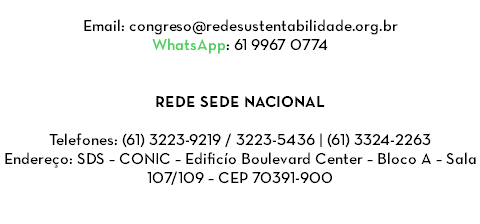
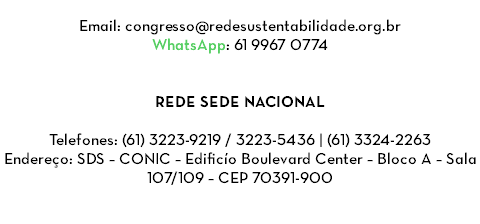
Correção link de inscrição e e-mail

Changed region(s): [[0.1562, 0.0625, 0.8438, 0.1562]]

diff --git a/_site/inscreva-se.html b/_site/inscreva-se.html
@@ -3,7 +3,7 @@
  <head>
 
   <script type="text/javascript">
-   if(typeof Muse == "undefined") window.Muse = {}; window.Muse.assets = {"required":["jquery-1.8.3.min.js", "museutils.js", "jquery.watch.js", "webpro.js", "musewpslideshow.js", "jquery.museoverlay.js", "touchswipe.js", "jquery.musemenu.js", "jquery.scrolleffects.js", "inscreva-se.css"], "outOfDate":[]};
+   if(typeof Muse == "undefined") window.Muse = {}; window.Muse.assets = {"required":["jquery-1.8.3.min.js", "museutils.js", "webpro.js", "musewpslideshow.js", "jquery.museoverlay.js", "touchswipe.js", "jquery.watch.js", "jquery.musemenu.js", "jquery.scrolleffects.js", "inscreva-se.css"], "outOfDate":[]};
 </script>
   
   <meta http-equiv="Content-type" content="text/html;charset=UTF-8"/>
@@ -1024,14 +1024,16 @@
         <div class="position_content" id="u47568_position_content">
          <div class="clearfix colelem" id="pu47559-7"><!-- group -->
           <img class="grpelem" id="u47559-7" alt="Para a participação dos inscritos como Observadores, será cobrada uma taxa de R$ 100,00(Cem Reais). Essa taxa foi calculada para cobrir os custos de participação e nele estão inclusos todos os itens do Kit Congressista, discriminado acima. " width="912" height="188" src="images/u47559-7.png"/><!-- rasterized frame -->
-          <div class="grpelem" id="u47571"><!-- simple frame --></div>
+          <!-- m_editable region-id="editable-static-tag-U47571" template="inscreva-se.html" data-type="html" data-ice-options="clickable" data-ice-editable="link" -->
+          <a class="nonblock nontext grpelem" id="u47571" href="https://docs.google.com/forms/d/1iW3v93ujCsbuv2XKQ9TfmAGasv1-nIIT3EAKmdKGcgs/viewform" data-muse-uid="U47571"><!-- simple frame --></a>
+          <!-- /m_editable -->
          </div>
          <a class="nonblock nontext colelem" id="u47570-6" href="https://docs.google.com/forms/d/1iW3v93ujCsbuv2XKQ9TfmAGasv1-nIIT3EAKmdKGcgs/viewform"><!-- rasterized frame --><img id="u47570-6_img" alt="Preencha o formulário para garantir sua participação! Inscrições válidas até 17 de Fevereiro " width="460" height="44" src="images/u47570-6.png"/></a>
         </div>
        </div>
       </div>
      </div>
-     <a class="nonblock nontext grpelem" id="u47572" href="https://docs.google.com/forms/d/1RoWwYsL5l6ypeXtZWWjN3GCknF5tflspP9wii9_aXos/viewform"><!-- state-based BG images --><img id="u47572_states" alt="FORMULÁRIO para INSCRIÇÃO" src="images/blank.gif"/></a>
+     <a class="nonblock nontext grpelem" id="u47572" href="https://docs.google.com/forms/d/1iW3v93ujCsbuv2XKQ9TfmAGasv1-nIIT3EAKmdKGcgs/viewform"><!-- state-based BG images --><img id="u47572_states" alt="FORMULÁRIO para INSCRIÇÃO" src="images/blank.gif"/></a>
     </div>
     <div class="clearfix colelem" id="pu47233"><!-- group -->
      <!-- m_editable region-id="editable-static-tag-U47233-BP_infinity" template="inscreva-se.html" data-type="image" data-ice-options="clickable" data-ice-editable="link" -->
@@ -1103,9 +1105,9 @@ Muse.Utils.initWidget('#slideshowu46998', ['#bp_infinity'], function(elem) { var
 Muse.Utils.initWidget('#slideshowu46890', ['#bp_infinity'], function(elem) { var widget = new WebPro.Widget.ContentSlideShow(elem, {autoPlay:true,displayInterval:3000,slideLinkStopsSlideShow:false,transitionStyle:'fading',lightboxEnabled_runtime:false,shuffle:true,transitionDuration:1500,enableSwipe:true,elastic:'off',resumeAutoplay:true,resumeAutoplayInterval:3000,playOnce:false,autoActivate_runtime:false}); $(elem).data('widget', widget); return widget; });/* #slideshowu46890 */
 Muse.Utils.initWidget('#slideshowu46216', ['#bp_infinity'], function(elem) { var widget = new WebPro.Widget.ContentSlideShow(elem, {autoPlay:true,displayInterval:3000,slideLinkStopsSlideShow:false,transitionStyle:'fading',lightboxEnabled_runtime:false,shuffle:true,transitionDuration:1500,enableSwipe:true,elastic:'off',resumeAutoplay:true,resumeAutoplayInterval:3000,playOnce:false,autoActivate_runtime:false}); $(elem).data('widget', widget); return widget; });/* #slideshowu46216 */
 Muse.Utils.initWidget('.MenuBar', ['#bp_infinity'], function(elem) { return $(elem).museMenu(); });/* unifiedNavBar */
-$('#u47230-bw').registerPositionScrollEffect([{"speed":[null,0],"in":[-Infinity,0]},{"speed":[null,0],"in":[0,Infinity]}]);/* scroll effect */
-$('#u47232-bw').registerPositionScrollEffect([{"speed":[null,1],"in":[-Infinity,299.87]},{"speed":[null,0],"in":[299.87,Infinity]}]);/* scroll effect */
-$('#menuu64187').registerPositionScrollEffect([{"speed":[0,1],"in":[-Infinity,299.85]},{"speed":[0,0],"in":[299.85,Infinity]}]);/* scroll effect */
+$('#u47230-bw').registerPositionScrollEffect([{"in":[-Infinity,0],"speed":[null,0]},{"in":[0,Infinity],"speed":[null,0]}]);/* scroll effect */
+$('#u47232-bw').registerPositionScrollEffect([{"in":[-Infinity,299.87],"speed":[null,1]},{"in":[299.87,Infinity],"speed":[null,0]}]);/* scroll effect */
+$('#menuu64187').registerPositionScrollEffect([{"in":[-Infinity,299.85],"speed":[0,1]},{"in":[299.85,Infinity],"speed":[0,0]}]);/* scroll effect */
 Muse.Utils.showWidgetsWhenReady();/* body */
 Muse.Utils.transformMarkupToFixBrowserProblems();/* body */
 } catch(e) { if (e && 'function' == typeof e.notify) e.notify(); else Muse.Assert.fail('Error calling selector function:' + e); }});

diff --git a/_site/contatos.html b/_site/contatos.html
@@ -995,7 +995,7 @@
        </div>
        <!-- /m_editable -->
        <div class="clearfix colelem" id="pu17123-19"><!-- group -->
-        <img class="grpelem" id="u17123-19" alt="&nbsp;Email: congreso@redesustentabilidade.org.br WhatsApp: 61 9967 0774 REDE SEDE NACIONAL Telefones: (61) 3223-9219 / 3223-5436 | (61) 3324-2263 Endereço: SDS – CONIC – Edificío Boulevard Center – Bloco A – Sala 107/109 – CEP 70391-900 " width="480" height="224" src="images/u17123-19.png"/><!-- rasterized frame -->
+        <img class="grpelem" id="u17123-19" alt="&nbsp;Email: congresso@redesustentabilidade.org.br WhatsApp: 61 9967 0774 REDE SEDE NACIONAL Telefones: (61) 3223-9219 / 3223-5436 | (61) 3324-2263 Endereço: SDS – CONIC – Edificío Boulevard Center – Bloco A – Sala 107/109 – CEP 70391-900 " width="480" height="224" src="images/u17123-19.png"/><!-- rasterized frame -->
         <!-- m_editable region-id="editable-static-tag-U38045-BP_infinity" template="contatos.html" data-type="image" -->
         <div class="clip_frame grpelem" id="u38045" data-muse-uid="U38045" data-muse-type="img_frame"><!-- image -->
          <img class="block" id="u38045_img" src="images/wta.gif" alt="" width="20" height="20" data-muse-src="images/wta.gif"/>
@@ -1075,9 +1075,9 @@ Muse.Utils.initWidget('#slideshowu30395', ['#bp_infinity'], function(elem) { var
 Muse.Utils.initWidget('#slideshowu29779', ['#bp_infinity'], function(elem) { var widget = new WebPro.Widget.ContentSlideShow(elem, {autoPlay:true,displayInterval:3000,slideLinkStopsSlideShow:false,transitionStyle:'fading',lightboxEnabled_runtime:false,shuffle:true,transitionDuration:1500,enableSwipe:true,elastic:'off',resumeAutoplay:true,resumeAutoplayInterval:3000,playOnce:false,autoActivate_runtime:false}); $(elem).data('widget', widget); return widget; });/* #slideshowu29779 */
 Muse.Utils.initWidget('#slideshowu29553', ['#bp_infinity'], function(elem) { var widget = new WebPro.Widget.ContentSlideShow(elem, {autoPlay:true,displayInterval:3000,slideLinkStopsSlideShow:false,transitionStyle:'fading',lightboxEnabled_runtime:false,shuffle:true,transitionDuration:1500,enableSwipe:true,elastic:'off',resumeAutoplay:true,resumeAutoplayInterval:3000,playOnce:false,autoActivate_runtime:false}); $(elem).data('widget', widget); return widget; });/* #slideshowu29553 */
 Muse.Utils.initWidget('.MenuBar', ['#bp_infinity'], function(elem) { return $(elem).museMenu(); });/* unifiedNavBar */
-$('#u9026-bw').registerPositionScrollEffect([{"speed":[null,0],"in":[-Infinity,0]},{"speed":[null,0],"in":[0,Infinity]}]);/* scroll effect */
-$('#u9285-bw').registerPositionScrollEffect([{"speed":[null,1],"in":[-Infinity,299.87]},{"speed":[null,0],"in":[299.87,Infinity]}]);/* scroll effect */
-$('#menuu62263').registerPositionScrollEffect([{"speed":[0,1],"in":[-Infinity,299.85]},{"speed":[0,0],"in":[299.85,Infinity]}]);/* scroll effect */
+$('#u9026-bw').registerPositionScrollEffect([{"in":[-Infinity,0],"speed":[null,0]},{"in":[0,Infinity],"speed":[null,0]}]);/* scroll effect */
+$('#u9285-bw').registerPositionScrollEffect([{"in":[-Infinity,299.87],"speed":[null,1]},{"in":[299.87,Infinity],"speed":[null,0]}]);/* scroll effect */
+$('#menuu62263').registerPositionScrollEffect([{"in":[-Infinity,299.85],"speed":[0,1]},{"in":[299.85,Infinity],"speed":[0,0]}]);/* scroll effect */
 Muse.Utils.showWidgetsWhenReady();/* body */
 Muse.Utils.transformMarkupToFixBrowserProblems();/* body */
 } catch(e) { if (e && 'function' == typeof e.notify) e.notify(); else Muse.Assert.fail('Error calling selector function:' + e); }});

diff --git a/_site/news4.html b/_site/news4.html
@@ -1202,9 +1202,9 @@ Muse.Utils.initWidget('#slideshowu42846', ['#bp_infinity'], function(elem) { var
 Muse.Utils.initWidget('#slideshowu42717', ['#bp_infinity'], function(elem) { var widget = new WebPro.Widget.ContentSlideShow(elem, {autoPlay:true,displayInterval:3000,slideLinkStopsSlideShow:false,transitionStyle:'fading',lightboxEnabled_runtime:false,shuffle:true,transitionDuration:1500,enableSwipe:true,elastic:'off',resumeAutoplay:true,resumeAutoplayInterval:3000,playOnce:false,autoActivate_runtime:false}); $(elem).data('widget', widget); return widget; });/* #slideshowu42717 */
 Muse.Utils.initWidget('#slideshowu42888', ['#bp_infinity'], function(elem) { var widget = new WebPro.Widget.ContentSlideShow(elem, {autoPlay:true,displayInterval:3000,slideLinkStopsSlideShow:false,transitionStyle:'fading',lightboxEnabled_runtime:false,shuffle:true,transitionDuration:1500,enableSwipe:true,elastic:'off',resumeAutoplay:true,resumeAutoplayInterval:3000,playOnce:false,autoActivate_runtime:false}); $(elem).data('widget', widget); return widget; });/* #slideshowu42888 */
 Muse.Utils.initWidget('.MenuBar', ['#bp_infinity'], function(elem) { return $(elem).museMenu(); });/* unifiedNavBar */
-$('#u44666-bw').registerPositionScrollEffect([{"speed":[null,0],"in":[-Infinity,0.05]},{"speed":[null,0],"in":[0.05,Infinity]}]);/* scroll effect */
-$('#u43827-bw').registerPositionScrollEffect([{"speed":[null,1],"in":[-Infinity,299.87]},{"speed":[null,0],"in":[299.87,Infinity]}]);/* scroll effect */
-$('#menuu63992').registerPositionScrollEffect([{"speed":[0,1],"in":[-Infinity,299.85]},{"speed":[0,0],"in":[299.85,Infinity]}]);/* scroll effect */
+$('#u44666-bw').registerPositionScrollEffect([{"in":[-Infinity,0.05],"speed":[null,0]},{"in":[0.05,Infinity],"speed":[null,0]}]);/* scroll effect */
+$('#u43827-bw').registerPositionScrollEffect([{"in":[-Infinity,299.87],"speed":[null,1]},{"in":[299.87,Infinity],"speed":[null,0]}]);/* scroll effect */
+$('#menuu63992').registerPositionScrollEffect([{"in":[-Infinity,299.85],"speed":[0,1]},{"in":[299.85,Infinity],"speed":[0,0]}]);/* scroll effect */
 Muse.Utils.showWidgetsWhenReady();/* body */
 Muse.Utils.transformMarkupToFixBrowserProblems();/* body */
 } catch(e) { if (e && 'function' == typeof e.notify) e.notify(); else Muse.Assert.fail('Error calling selector function:' + e); }});

diff --git a/_site/news5.html b/_site/news5.html
@@ -1196,9 +1196,9 @@ Muse.Utils.initWidget('#slideshowu65220', ['#bp_infinity'], function(elem) { var
 Muse.Utils.initWidget('#slideshowu65023', ['#bp_infinity'], function(elem) { var widget = new WebPro.Widget.ContentSlideShow(elem, {autoPlay:true,displayInterval:3000,slideLinkStopsSlideShow:false,transitionStyle:'fading',lightboxEnabled_runtime:false,shuffle:true,transitionDuration:1500,enableSwipe:true,elastic:'off',resumeAutoplay:true,resumeAutoplayInterval:3000,playOnce:false,autoActivate_runtime:false}); $(elem).data('widget', widget); return widget; });/* #slideshowu65023 */
 Muse.Utils.initWidget('#slideshowu65568', ['#bp_infinity'], function(elem) { var widget = new WebPro.Widget.ContentSlideShow(elem, {autoPlay:true,displayInterval:3000,slideLinkStopsSlideShow:false,transitionStyle:'fading',lightboxEnabled_runtime:false,shuffle:true,transitionDuration:1500,enableSwipe:true,elastic:'off',resumeAutoplay:true,resumeAutoplayInterval:3000,playOnce:false,autoActivate_runtime:false}); $(elem).data('widget', widget); return widget; });/* #slideshowu65568 */
 Muse.Utils.initWidget('.MenuBar', ['#bp_infinity'], function(elem) { return $(elem).museMenu(); });/* unifiedNavBar */
-$('#u66150-bw').registerPositionScrollEffect([{"speed":[null,0],"in":[-Infinity,0.05]},{"speed":[null,0],"in":[0.05,Infinity]}]);/* scroll effect */
-$('#u66148-bw').registerPositionScrollEffect([{"speed":[null,1],"in":[-Infinity,299.87]},{"speed":[null,0],"in":[299.87,Infinity]}]);/* scroll effect */
-$('#menuu66082').registerPositionScrollEffect([{"speed":[0,1],"in":[-Infinity,299.85]},{"speed":[0,0],"in":[299.85,Infinity]}]);/* scroll effect */
+$('#u66150-bw').registerPositionScrollEffect([{"in":[-Infinity,0.05],"speed":[null,0]},{"in":[0.05,Infinity],"speed":[null,0]}]);/* scroll effect */
+$('#u66148-bw').registerPositionScrollEffect([{"in":[-Infinity,299.87],"speed":[null,1]},{"in":[299.87,Infinity],"speed":[null,0]}]);/* scroll effect */
+$('#menuu66082').registerPositionScrollEffect([{"in":[-Infinity,299.85],"speed":[0,1]},{"in":[299.85,Infinity],"speed":[0,0]}]);/* scroll effect */
 Muse.Utils.showWidgetsWhenReady();/* body */
 Muse.Utils.transformMarkupToFixBrowserProblems();/* body */
 } catch(e) { if (e && 'function' == typeof e.notify) e.notify(); else Muse.Assert.fail('Error calling selector function:' + e); }});

diff --git a/_site/news6.html b/_site/news6.html
@@ -1200,9 +1200,9 @@ Muse.Utils.initWidget('#slideshowu69653', ['#bp_infinity'], function(elem) { var
 Muse.Utils.initWidget('#slideshowu69674', ['#bp_infinity'], function(elem) { var widget = new WebPro.Widget.ContentSlideShow(elem, {autoPlay:true,displayInterval:3000,slideLinkStopsSlideShow:false,transitionStyle:'fading',lightboxEnabled_runtime:false,shuffle:true,transitionDuration:1500,enableSwipe:true,elastic:'off',resumeAutoplay:true,resumeAutoplayInterval:3000,playOnce:false,autoActivate_runtime:false}); $(elem).data('widget', widget); return widget; });/* #slideshowu69674 */
 Muse.Utils.initWidget('#slideshowu69472', ['#bp_infinity'], function(elem) { var widget = new WebPro.Widget.ContentSlideShow(elem, {autoPlay:true,displayInterval:3000,slideLinkStopsSlideShow:false,transitionStyle:'fading',lightboxEnabled_runtime:false,shuffle:true,transitionDuration:1500,enableSwipe:true,elastic:'off',resumeAutoplay:true,resumeAutoplayInterval:3000,playOnce:false,autoActivate_runtime:false}); $(elem).data('widget', widget); return widget; });/* #slideshowu69472 */
 Muse.Utils.initWidget('.MenuBar', ['#bp_infinity'], function(elem) { return $(elem).museMenu(); });/* unifiedNavBar */
-$('#u68746-bw').registerPositionScrollEffect([{"speed":[null,0],"in":[-Infinity,0.05]},{"speed":[null,0],"in":[0.05,Infinity]}]);/* scroll effect */
-$('#u69869-bw').registerPositionScrollEffect([{"speed":[null,1],"in":[-Infinity,299.87]},{"speed":[null,0],"in":[299.87,Infinity]}]);/* scroll effect */
-$('#menuu68747').registerPositionScrollEffect([{"speed":[0,1],"in":[-Infinity,299.85]},{"speed":[0,0],"in":[299.85,Infinity]}]);/* scroll effect */
+$('#u68746-bw').registerPositionScrollEffect([{"in":[-Infinity,0.05],"speed":[null,0]},{"in":[0.05,Infinity],"speed":[null,0]}]);/* scroll effect */
+$('#u69869-bw').registerPositionScrollEffect([{"in":[-Infinity,299.87],"speed":[null,1]},{"in":[299.87,Infinity],"speed":[null,0]}]);/* scroll effect */
+$('#menuu68747').registerPositionScrollEffect([{"in":[-Infinity,299.85],"speed":[0,1]},{"in":[299.85,Infinity],"speed":[0,0]}]);/* scroll effect */
 Muse.Utils.showWidgetsWhenReady();/* body */
 Muse.Utils.transformMarkupToFixBrowserProblems();/* body */
 } catch(e) { if (e && 'function' == typeof e.notify) e.notify(); else Muse.Assert.fail('Error calling selector function:' + e); }});

diff --git a/_site/news7.html b/_site/news7.html
@@ -1200,9 +1200,9 @@ Muse.Utils.initWidget('#slideshowu70988', ['#bp_infinity'], function(elem) { var
 Muse.Utils.initWidget('#slideshowu70730', ['#bp_infinity'], function(elem) { var widget = new WebPro.Widget.ContentSlideShow(elem, {autoPlay:true,displayInterval:3000,slideLinkStopsSlideShow:false,transitionStyle:'fading',lightboxEnabled_runtime:false,shuffle:true,transitionDuration:1500,enableSwipe:true,elastic:'off',resumeAutoplay:true,resumeAutoplayInterval:3000,playOnce:false,autoActivate_runtime:false}); $(elem).data('widget', widget); return widget; });/* #slideshowu70730 */
 Muse.Utils.initWidget('#slideshowu71009', ['#bp_infinity'], function(elem) { var widget = new WebPro.Widget.ContentSlideShow(elem, {autoPlay:true,displayInterval:3000,slideLinkStopsSlideShow:false,transitionStyle:'fading',lightboxEnabled_runtime:false,shuffle:true,transitionDuration:1500,enableSwipe:true,elastic:'off',resumeAutoplay:true,resumeAutoplayInterval:3000,playOnce:false,autoActivate_runtime:false}); $(elem).data('widget', widget); return widget; });/* #slideshowu71009 */
 Muse.Utils.initWidget('.MenuBar', ['#bp_infinity'], function(elem) { return $(elem).museMenu(); });/* unifiedNavBar */
-$('#u70435-bw').registerPositionScrollEffect([{"speed":[null,0],"in":[-Infinity,0.05]},{"speed":[null,0],"in":[0.05,Infinity]}]);/* scroll effect */
-$('#u70436-bw').registerPositionScrollEffect([{"speed":[null,1],"in":[-Infinity,299.87]},{"speed":[null,0],"in":[299.87,Infinity]}]);/* scroll effect */
-$('#menuu70370').registerPositionScrollEffect([{"speed":[0,1],"in":[-Infinity,299.85]},{"speed":[0,0],"in":[299.85,Infinity]}]);/* scroll effect */
+$('#u70435-bw').registerPositionScrollEffect([{"in":[-Infinity,0.05],"speed":[null,0]},{"in":[0.05,Infinity],"speed":[null,0]}]);/* scroll effect */
+$('#u70436-bw').registerPositionScrollEffect([{"in":[-Infinity,299.87],"speed":[null,1]},{"in":[299.87,Infinity],"speed":[null,0]}]);/* scroll effect */
+$('#menuu70370').registerPositionScrollEffect([{"in":[-Infinity,299.85],"speed":[0,1]},{"in":[299.85,Infinity],"speed":[0,0]}]);/* scroll effect */
 Muse.Utils.showWidgetsWhenReady();/* body */
 Muse.Utils.transformMarkupToFixBrowserProblems();/* body */
 } catch(e) { if (e && 'function' == typeof e.notify) e.notify(); else Muse.Assert.fail('Error calling selector function:' + e); }});

diff --git a/_site/arquivos.html b/_site/arquivos.html
@@ -1092,9 +1092,9 @@ Muse.Utils.initWidget('#slideshowu38268', ['#bp_infinity'], function(elem) { var
 Muse.Utils.initWidget('#slideshowu38738', ['#bp_infinity'], function(elem) { var widget = new WebPro.Widget.ContentSlideShow(elem, {autoPlay:true,displayInterval:3000,slideLinkStopsSlideShow:false,transitionStyle:'fading',lightboxEnabled_runtime:false,shuffle:true,transitionDuration:1500,enableSwipe:true,elastic:'off',resumeAutoplay:true,resumeAutoplayInterval:3000,playOnce:false,autoActivate_runtime:false}); $(elem).data('widget', widget); return widget; });/* #slideshowu38738 */
 Muse.Utils.initWidget('#slideshowu38460', ['#bp_infinity'], function(elem) { var widget = new WebPro.Widget.ContentSlideShow(elem, {autoPlay:true,displayInterval:3000,slideLinkStopsSlideShow:false,transitionStyle:'fading',lightboxEnabled_runtime:false,shuffle:true,transitionDuration:1500,enableSwipe:true,elastic:'off',resumeAutoplay:true,resumeAutoplayInterval:3000,playOnce:false,autoActivate_runtime:false}); $(elem).data('widget', widget); return widget; });/* #slideshowu38460 */
 Muse.Utils.initWidget('.MenuBar', ['#bp_infinity'], function(elem) { return $(elem).museMenu(); });/* unifiedNavBar */
-$('#u38208-bw').registerPositionScrollEffect([{"speed":[null,0],"in":[-Infinity,0]},{"speed":[null,0],"in":[0,Infinity]}]);/* scroll effect */
-$('#u38264-bw').registerPositionScrollEffect([{"speed":[null,1],"in":[-Infinity,299.87]},{"speed":[null,0],"in":[299.87,Infinity]}]);/* scroll effect */
-$('#menuu62647').registerPositionScrollEffect([{"speed":[0,1],"in":[-Infinity,299.85]},{"speed":[0,0],"in":[299.85,Infinity]}]);/* scroll effect */
+$('#u38208-bw').registerPositionScrollEffect([{"in":[-Infinity,0],"speed":[null,0]},{"in":[0,Infinity],"speed":[null,0]}]);/* scroll effect */
+$('#u38264-bw').registerPositionScrollEffect([{"in":[-Infinity,299.87],"speed":[null,1]},{"in":[299.87,Infinity],"speed":[null,0]}]);/* scroll effect */
+$('#menuu62647').registerPositionScrollEffect([{"in":[-Infinity,299.85],"speed":[0,1]},{"in":[299.85,Infinity],"speed":[0,0]}]);/* scroll effect */
 Muse.Utils.showWidgetsWhenReady();/* body */
 Muse.Utils.transformMarkupToFixBrowserProblems();/* body */
 } catch(e) { if (e && 'function' == typeof e.notify) e.notify(); else Muse.Assert.fail('Error calling selector function:' + e); }});

diff --git a/_site/news1.html b/_site/news1.html
@@ -1196,9 +1196,9 @@ Muse.Utils.initWidget('#slideshowu33087', ['#bp_infinity'], function(elem) { var
 Muse.Utils.initWidget('#slideshowu32471', ['#bp_infinity'], function(elem) { var widget = new WebPro.Widget.ContentSlideShow(elem, {autoPlay:true,displayInterval:3000,slideLinkStopsSlideShow:false,transitionStyle:'fading',lightboxEnabled_runtime:false,shuffle:true,transitionDuration:1500,enableSwipe:true,elastic:'off',resumeAutoplay:true,resumeAutoplayInterval:3000,playOnce:false,autoActivate_runtime:false}); $(elem).data('widget', widget); return widget; });/* #slideshowu32471 */
 Muse.Utils.initWidget('#slideshowu32245', ['#bp_infinity'], function(elem) { var widget = new WebPro.Widget.ContentSlideShow(elem, {autoPlay:true,displayInterval:3000,slideLinkStopsSlideShow:false,transitionStyle:'fading',lightboxEnabled_runtime:false,shuffle:true,transitionDuration:1500,enableSwipe:true,elastic:'off',resumeAutoplay:true,resumeAutoplayInterval:3000,playOnce:false,autoActivate_runtime:false}); $(elem).data('widget', widget); return widget; });/* #slideshowu32245 */
 Muse.Utils.initWidget('.MenuBar', ['#bp_infinity'], function(elem) { return $(elem).museMenu(); });/* unifiedNavBar */
-$('#u15052-bw').registerPositionScrollEffect([{"speed":[null,0],"in":[-Infinity,0]},{"speed":[null,0],"in":[0,Infinity]}]);/* scroll effect */
-$('#u14894-bw').registerPositionScrollEffect([{"speed":[null,1],"in":[-Infinity,299.87]},{"speed":[null,0],"in":[299.87,Infinity]}]);/* scroll effect */
-$('#menuu63416').registerPositionScrollEffect([{"speed":[0,1],"in":[-Infinity,299.85]},{"speed":[0,0],"in":[299.85,Infinity]}]);/* scroll effect */
+$('#u15052-bw').registerPositionScrollEffect([{"in":[-Infinity,0],"speed":[null,0]},{"in":[0,Infinity],"speed":[null,0]}]);/* scroll effect */
+$('#u14894-bw').registerPositionScrollEffect([{"in":[-Infinity,299.87],"speed":[null,1]},{"in":[299.87,Infinity],"speed":[null,0]}]);/* scroll effect */
+$('#menuu63416').registerPositionScrollEffect([{"in":[-Infinity,299.85],"speed":[0,1]},{"in":[299.85,Infinity],"speed":[0,0]}]);/* scroll effect */
 Muse.Utils.showWidgetsWhenReady();/* body */
 Muse.Utils.transformMarkupToFixBrowserProblems();/* body */
 } catch(e) { if (e && 'function' == typeof e.notify) e.notify(); else Muse.Assert.fail('Error calling selector function:' + e); }});

diff --git a/_site/news2.html b/_site/news2.html
@@ -1194,9 +1194,9 @@ Muse.Utils.initWidget('#slideshowu34433', ['#bp_infinity'], function(elem) { var
 Muse.Utils.initWidget('#slideshowu33817', ['#bp_infinity'], function(elem) { var widget = new WebPro.Widget.ContentSlideShow(elem, {autoPlay:true,displayInterval:3000,slideLinkStopsSlideShow:false,transitionStyle:'fading',lightboxEnabled_runtime:false,shuffle:true,transitionDuration:1500,enableSwipe:true,elastic:'off',resumeAutoplay:true,resumeAutoplayInterval:3000,playOnce:false,autoActivate_runtime:false}); $(elem).data('widget', widget); return widget; });/* #slideshowu33817 */
 Muse.Utils.initWidget('#slideshowu33591', ['#bp_infinity'], function(elem) { var widget = new WebPro.Widget.ContentSlideShow(elem, {autoPlay:true,displayInterval:3000,slideLinkStopsSlideShow:false,transitionStyle:'fading',lightboxEnabled_runtime:false,shuffle:true,transitionDuration:1500,enableSwipe:true,elastic:'off',resumeAutoplay:true,resumeAutoplayInterval:3000,playOnce:false,autoActivate_runtime:false}); $(elem).data('widget', widget); return widget; });/* #slideshowu33591 */
 Muse.Utils.initWidget('.MenuBar', ['#bp_infinity'], function(elem) { return $(elem).museMenu(); });/* unifiedNavBar */
-$('#u16376-bw').registerPositionScrollEffect([{"speed":[null,0],"in":[-Infinity,0]},{"speed":[null,0],"in":[0,Infinity]}]);/* scroll effect */
-$('#u16546-bw').registerPositionScrollEffect([{"speed":[null,1],"in":[-Infinity,299.87]},{"speed":[null,0],"in":[299.87,Infinity]}]);/* scroll effect */
-$('#menuu63608').registerPositionScrollEffect([{"speed":[0,1],"in":[-Infinity,299.85]},{"speed":[0,0],"in":[299.85,Infinity]}]);/* scroll effect */
+$('#u16376-bw').registerPositionScrollEffect([{"in":[-Infinity,0],"speed":[null,0]},{"in":[0,Infinity],"speed":[null,0]}]);/* scroll effect */
+$('#u16546-bw').registerPositionScrollEffect([{"in":[-Infinity,299.87],"speed":[null,1]},{"in":[299.87,Infinity],"speed":[null,0]}]);/* scroll effect */
+$('#menuu63608').registerPositionScrollEffect([{"in":[-Infinity,299.85],"speed":[0,1]},{"in":[299.85,Infinity],"speed":[0,0]}]);/* scroll effect */
 Muse.Utils.showWidgetsWhenReady();/* body */
 Muse.Utils.transformMarkupToFixBrowserProblems();/* body */
 } catch(e) { if (e && 'function' == typeof e.notify) e.notify(); else Muse.Assert.fail('Error calling selector function:' + e); }});

diff --git a/_site/news3.html b/_site/news3.html
@@ -1206,9 +1206,9 @@ Muse.Utils.initWidget('#slideshowu40426', ['#bp_infinity'], function(elem) { var
 Muse.Utils.initWidget('#slideshowu40489', ['#bp_infinity'], function(elem) { var widget = new WebPro.Widget.ContentSlideShow(elem, {autoPlay:true,displayInterval:3000,slideLinkStopsSlideShow:false,transitionStyle:'fading',lightboxEnabled_runtime:false,shuffle:true,transitionDuration:1500,enableSwipe:true,elastic:'off',resumeAutoplay:true,resumeAutoplayInterval:3000,playOnce:false,autoActivate_runtime:false}); $(elem).data('widget', widget); return widget; });/* #slideshowu40489 */
 Muse.Utils.initWidget('#slideshowu40158', ['#bp_infinity'], function(elem) { var widget = new WebPro.Widget.ContentSlideShow(elem, {autoPlay:true,displayInterval:3000,slideLinkStopsSlideShow:false,transitionStyle:'fading',lightboxEnabled_runtime:false,shuffle:true,transitionDuration:1500,enableSwipe:true,elastic:'off',resumeAutoplay:true,resumeAutoplayInterval:3000,playOnce:false,autoActivate_runtime:false}); $(elem).data('widget', widget); return widget; });/* #slideshowu40158 */
 Muse.Utils.initWidget('.MenuBar', ['#bp_infinity'], function(elem) { return $(elem).museMenu(); });/* unifiedNavBar */
-$('#u39818-bw').registerPositionScrollEffect([{"speed":[null,0],"in":[-Infinity,0]},{"speed":[null,0],"in":[0,Infinity]}]);/* scroll effect */
-$('#u40875-bw').registerPositionScrollEffect([{"speed":[null,1],"in":[-Infinity,299.87]},{"speed":[null,0],"in":[299.87,Infinity]}]);/* scroll effect */
-$('#menuu63800').registerPositionScrollEffect([{"speed":[0,1],"in":[-Infinity,299.85]},{"speed":[0,0],"in":[299.85,Infinity]}]);/* scroll effect */
+$('#u39818-bw').registerPositionScrollEffect([{"in":[-Infinity,0],"speed":[null,0]},{"in":[0,Infinity],"speed":[null,0]}]);/* scroll effect */
+$('#u40875-bw').registerPositionScrollEffect([{"in":[-Infinity,299.87],"speed":[null,1]},{"in":[299.87,Infinity],"speed":[null,0]}]);/* scroll effect */
+$('#menuu63800').registerPositionScrollEffect([{"in":[-Infinity,299.85],"speed":[0,1]},{"in":[299.85,Infinity],"speed":[0,0]}]);/* scroll effect */
 Muse.Utils.showWidgetsWhenReady();/* body */
 Muse.Utils.transformMarkupToFixBrowserProblems();/* body */
 } catch(e) { if (e && 'function' == typeof e.notify) e.notify(); else Muse.Assert.fail('Error calling selector function:' + e); }});

diff --git a/_site/tese--e-prif.html b/_site/tese--e-prif.html
@@ -1067,9 +1067,9 @@ Muse.Utils.initWidget('#slideshowu45005', ['#bp_infinity'], function(elem) { var
 Muse.Utils.initWidget('#slideshowu45724', ['#bp_infinity'], function(elem) { var widget = new WebPro.Widget.ContentSlideShow(elem, {autoPlay:true,displayInterval:3000,slideLinkStopsSlideShow:false,transitionStyle:'fading',lightboxEnabled_runtime:false,shuffle:true,transitionDuration:1500,enableSwipe:true,elastic:'off',resumeAutoplay:true,resumeAutoplayInterval:3000,playOnce:false,autoActivate_runtime:false}); $(elem).data('widget', widget); return widget; });/* #slideshowu45724 */
 Muse.Utils.initWidget('#slideshowu45433', ['#bp_infinity'], function(elem) { var widget = new WebPro.Widget.ContentSlideShow(elem, {autoPlay:true,displayInterval:3000,slideLinkStopsSlideShow:false,transitionStyle:'fading',lightboxEnabled_runtime:false,shuffle:true,transitionDuration:1500,enableSwipe:true,elastic:'off',resumeAutoplay:true,resumeAutoplayInterval:3000,playOnce:false,autoActivate_runtime:false}); $(elem).data('widget', widget); return widget; });/* #slideshowu45433 */
 Muse.Utils.initWidget('.MenuBar', ['#bp_infinity'], function(elem) { return $(elem).museMenu(); });/* unifiedNavBar */
-$('#u44749-bw').registerPositionScrollEffect([{"speed":[null,0],"in":[-Infinity,0]},{"speed":[null,0],"in":[0,Infinity]}]);/* scroll effect */
-$('#u60182-bw').registerPositionScrollEffect([{"speed":[null,1],"in":[-Infinity,299.81]},{"speed":[null,0],"in":[299.81,Infinity]}]);/* scroll effect */
-$('#menuu62839').registerPositionScrollEffect([{"speed":[0,1],"in":[-Infinity,299.8]},{"speed":[0,0],"in":[299.8,Infinity]}]);/* scroll effect */
+$('#u44749-bw').registerPositionScrollEffect([{"in":[-Infinity,0],"speed":[null,0]},{"in":[0,Infinity],"speed":[null,0]}]);/* scroll effect */
+$('#u60182-bw').registerPositionScrollEffect([{"in":[-Infinity,299.81],"speed":[null,1]},{"in":[299.81,Infinity],"speed":[null,0]}]);/* scroll effect */
+$('#menuu62839').registerPositionScrollEffect([{"in":[-Infinity,299.8],"speed":[0,1]},{"in":[299.8,Infinity],"speed":[0,0]}]);/* scroll effect */
 Muse.Utils.showWidgetsWhenReady();/* body */
 Muse.Utils.transformMarkupToFixBrowserProblems();/* body */
 } catch(e) { if (e && 'function' == typeof e.notify) e.notify(); else Muse.Assert.fail('Error calling selector function:' + e); }});

diff --git a/_site/index.html b/_site/index.html
@@ -12,7 +12,7 @@
   <title>Segundo Congresso da Rede</title>
   <!-- CSS -->
   <link rel="stylesheet" type="text/css" href="css/site_global.css?131700929"/>
-  <link rel="stylesheet" type="text/css" href="css/index.css?325695517" id="pagesheet"/>
+  <link rel="stylesheet" type="text/css" href="css/index.css?257659026" id="pagesheet"/>
   <!-- Other scripts -->
   <script type="text/javascript">
    document.documentElement.className = document.documentElement.className.replace(/\bnojs\b/g, 'js');
@@ -1257,7 +1257,7 @@
          <iframe src="https://www.google.com/maps/embed?pb=!1m14!1m8!1m3!1d15356.419177464422!2d-47.8977774!3d-15.7984274!3m2!1i1024!2i768!4f13.1!3m3!1m2!1s0x0%3A0xb7023cbda0e2eca0!2sCNTC!5e0!3m2!1spt-BR!2sbr!4v1454525539739" width="800" height="400" frameborder="0" style="border:0" allowfullscreen></iframe>
 </div>
         <div class="clearfix colelem" id="pu34950-22"><!-- group -->
-         <img class="grpelem" id="u34950-22" alt="Endereço: Bloco C - Lote 65 - SGAS W 5 - Asa Sul, Brasília - DF, 70390-020 Amplo estacionamento Telefone: (61) 3217-7100 Email: congreso@redesustentabilidade.org.br WhatsApp: 61 9967 0774 " width="693" height="253" src="images/u34950-22.png"/><!-- rasterized frame -->
+         <img class="grpelem" id="u34950-22" alt="Endereço: Bloco C - Lote 65 - SGAS W 5 - Asa Sul, Brasília - DF, 70390-020 Amplo estacionamento Telefone: (61) 3217-7100 Email: congresso@redesustentabilidade.org.br WhatsApp: 61 9967 0774 " width="693" height="253" src="images/u34950-22.png"/><!-- rasterized frame -->
          <!-- m_editable region-id="editable-static-tag-U48313-BP_infinity" template="index.html" data-type="image" -->
          <div class="clip_frame grpelem" id="u48313" data-muse-uid="U48313" data-muse-type="img_frame"><!-- image -->
           <img class="block" id="u48313_img" src="images/wp.png" alt="" width="20" height="20" data-muse-src="images/wp.png"/>
